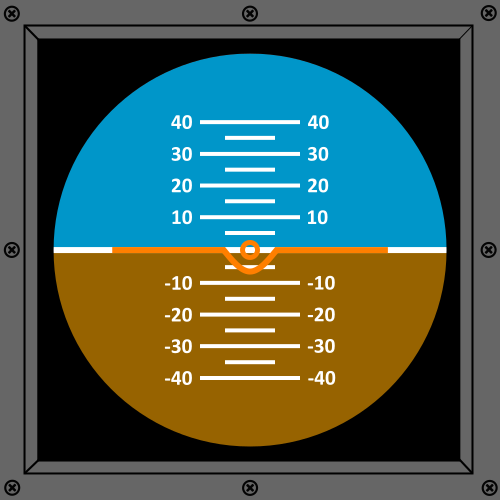
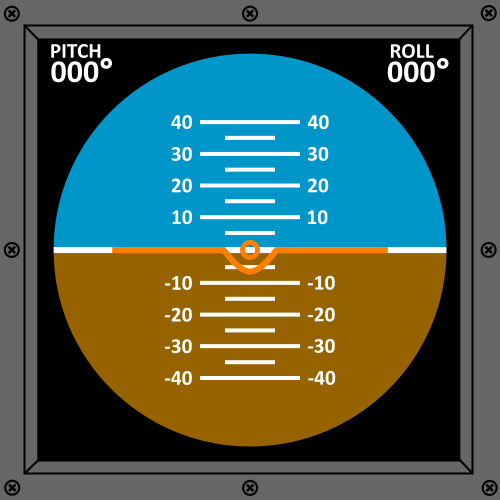
Add textual representation for pitch and roll to the horizon

Changed region(s): [[0.09, 0.09, 0.24, 0.18], [0.75, 0.09, 0.9, 0.18]]

diff --git a/dist/jean-flight-indicator.js b/dist/jean-flight-indicator.js
@@ -423,13 +423,13 @@ define('IndicatorBase',[ // jscs:ignore
         return s;
     };
     /** */
-    IndicatorBase.prototype.formatSpeedDegreeString = function (degree) {
+    IndicatorBase.prototype.formatHorizonDegreeString = IndicatorBase.prototype.formatSpeedDegreeString = function (degree) {
         var s = "";
         degree = degree.toFixed(0);
         degree = degree.toString();
         switch (degree.length) {
             case 1:
-                s = "00" + degree;
+                s = "<b>0</b>0" + degree;
                 break;
             case 2:
                 s = "0" + degree;
@@ -642,12 +642,14 @@ define('HorizonIndicator',["Inheritance", "IndicatorBase", "text!horizon-html"],
         var instance = this;
         options.template = html;
         Inheritance.inheritConstructor(IndicatorBase, this, options);
-        this.init({  
+        this.init({
             svgId: "horizon-svg",
             svgDataName: "horizon.svg",
             onSvgReady: function () { // jscs:ignore
                 instance.horizonElement = instance.svgElement.getElementById("horizon-element");
                 instance.horizonElement.setAttribute("transform", "");
+                instance.pitchValueText = instance.svgElement.getElementById("pitch-value-text");
+                instance.rollValueText = instance.svgElement.getElementById("roll-value-text");
             }
         });
         this.pixelBounds = {
@@ -670,7 +672,7 @@ define('HorizonIndicator',["Inheritance", "IndicatorBase", "text!horizon-html"],
      */
     HorizonIndicator.prototype.update = function (pitch, roll) {
         if (this.isReady) {
-            var pixelBound = this.pixelBounds;
+            var pixelBound = this.pixelBounds, center, pitchText = pitch, rollText = roll;
 
             pitch = pitch > pixelBound.PITCH_MAX ? pixelBound.PITCH_MAX : pitch;
             pitch = pitch < pixelBound.PITCH_MIN ? pixelBound.PITCH_MIN : pitch;
@@ -678,10 +680,13 @@ define('HorizonIndicator',["Inheritance", "IndicatorBase", "text!horizon-html"],
             roll = roll > pixelBound.ROLL_MAX ? pixelBound.ROLL_MAX : roll;
             roll = roll < pixelBound.ROLL_MIN ? pixelBound.ROLL_MIN : roll;
 
-            var center = this.getElementCenter(this.horizonElement);
+            center = this.getElementCenter(this.horizonElement);
             this.horizonElement.attributes.transform.nodeValue = "translate(0, " + pixelBound.PIXELS_PER_PITCH * pitch + ")" + " rotate(" + roll + " " + center.x + " " + center.y + ")";
+            this.pitchValueText.childNodes[0].textContent = this.formatHorizonDegreeString(pitchText);
+            this.rollValueText.childNodes[0].textContent = this.formatHorizonDegreeString(rollText);
         }
     };
+    /** */
     return HorizonIndicator;
 });
 

diff --git a/src/Horizon/HorizonIndicator.js b/src/Horizon/HorizonIndicator.js
@@ -10,12 +10,14 @@ define(["Inheritance", "IndicatorBase", "text!horizon-html"], function (Inherita
         var instance = this;
         options.template = html;
         Inheritance.inheritConstructor(IndicatorBase, this, options);
-        this.init({  
+        this.init({
             svgId: "horizon-svg",
             svgDataName: "horizon.svg",
             onSvgReady: function () { // jscs:ignore
                 instance.horizonElement = instance.svgElement.getElementById("horizon-element");
                 instance.horizonElement.setAttribute("transform", "");
+                instance.pitchValueText = instance.svgElement.getElementById("pitch-value-text");
+                instance.rollValueText = instance.svgElement.getElementById("roll-value-text");
             }
         });
         this.pixelBounds = {
@@ -38,7 +40,7 @@ define(["Inheritance", "IndicatorBase", "text!horizon-html"], function (Inherita
      */
     HorizonIndicator.prototype.update = function (pitch, roll) {
         if (this.isReady) {
-            var pixelBound = this.pixelBounds;
+            var pixelBound = this.pixelBounds, center, pitchText = pitch, rollText = roll;
 
             pitch = pitch > pixelBound.PITCH_MAX ? pixelBound.PITCH_MAX : pitch;
             pitch = pitch < pixelBound.PITCH_MIN ? pixelBound.PITCH_MIN : pitch;
@@ -46,9 +48,12 @@ define(["Inheritance", "IndicatorBase", "text!horizon-html"], function (Inherita
             roll = roll > pixelBound.ROLL_MAX ? pixelBound.ROLL_MAX : roll;
             roll = roll < pixelBound.ROLL_MIN ? pixelBound.ROLL_MIN : roll;
 
-            var center = this.getElementCenter(this.horizonElement);
+            center = this.getElementCenter(this.horizonElement);
             this.horizonElement.attributes.transform.nodeValue = "translate(0, " + pixelBound.PIXELS_PER_PITCH * pitch + ")" + " rotate(" + roll + " " + center.x + " " + center.y + ")";
+            this.pitchValueText.childNodes[0].textContent = this.formatHorizonDegreeString(pitchText);
+            this.rollValueText.childNodes[0].textContent = this.formatHorizonDegreeString(rollText);
         }
     };
+    /** */
     return HorizonIndicator;
 });

diff --git a/src/Base/IndicatorBase.js b/src/Base/IndicatorBase.js
@@ -82,13 +82,13 @@ define([ // jscs:ignore
         return s;
     };
     /** */
-    IndicatorBase.prototype.formatSpeedDegreeString = function (degree) {
+    IndicatorBase.prototype.formatHorizonDegreeString = IndicatorBase.prototype.formatSpeedDegreeString = function (degree) {
         var s = "";
         degree = degree.toFixed(0);
         degree = degree.toString();
         switch (degree.length) {
             case 1:
-                s = "00" + degree;
+                s = "<b>0</b>0" + degree;
                 break;
             case 2:
                 s = "0" + degree;
